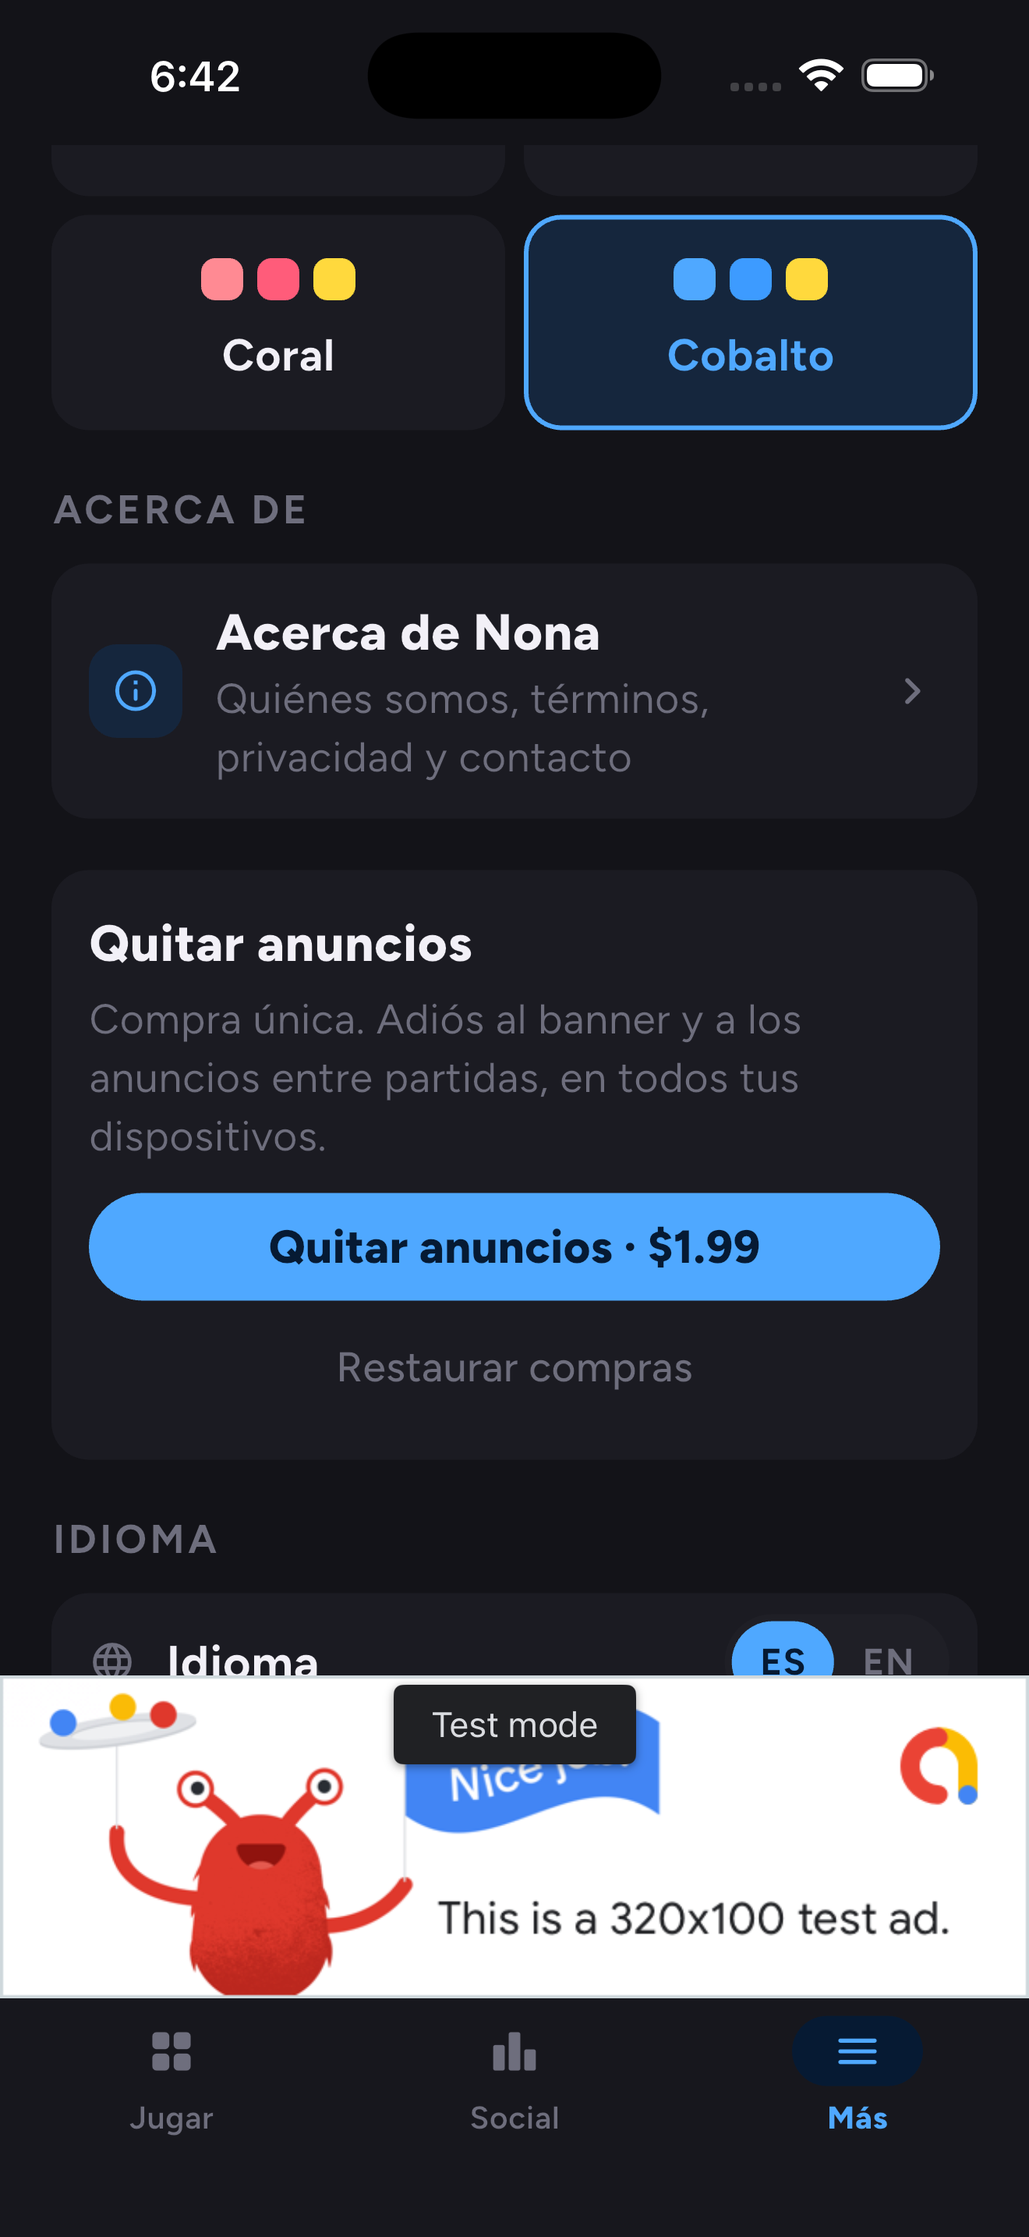
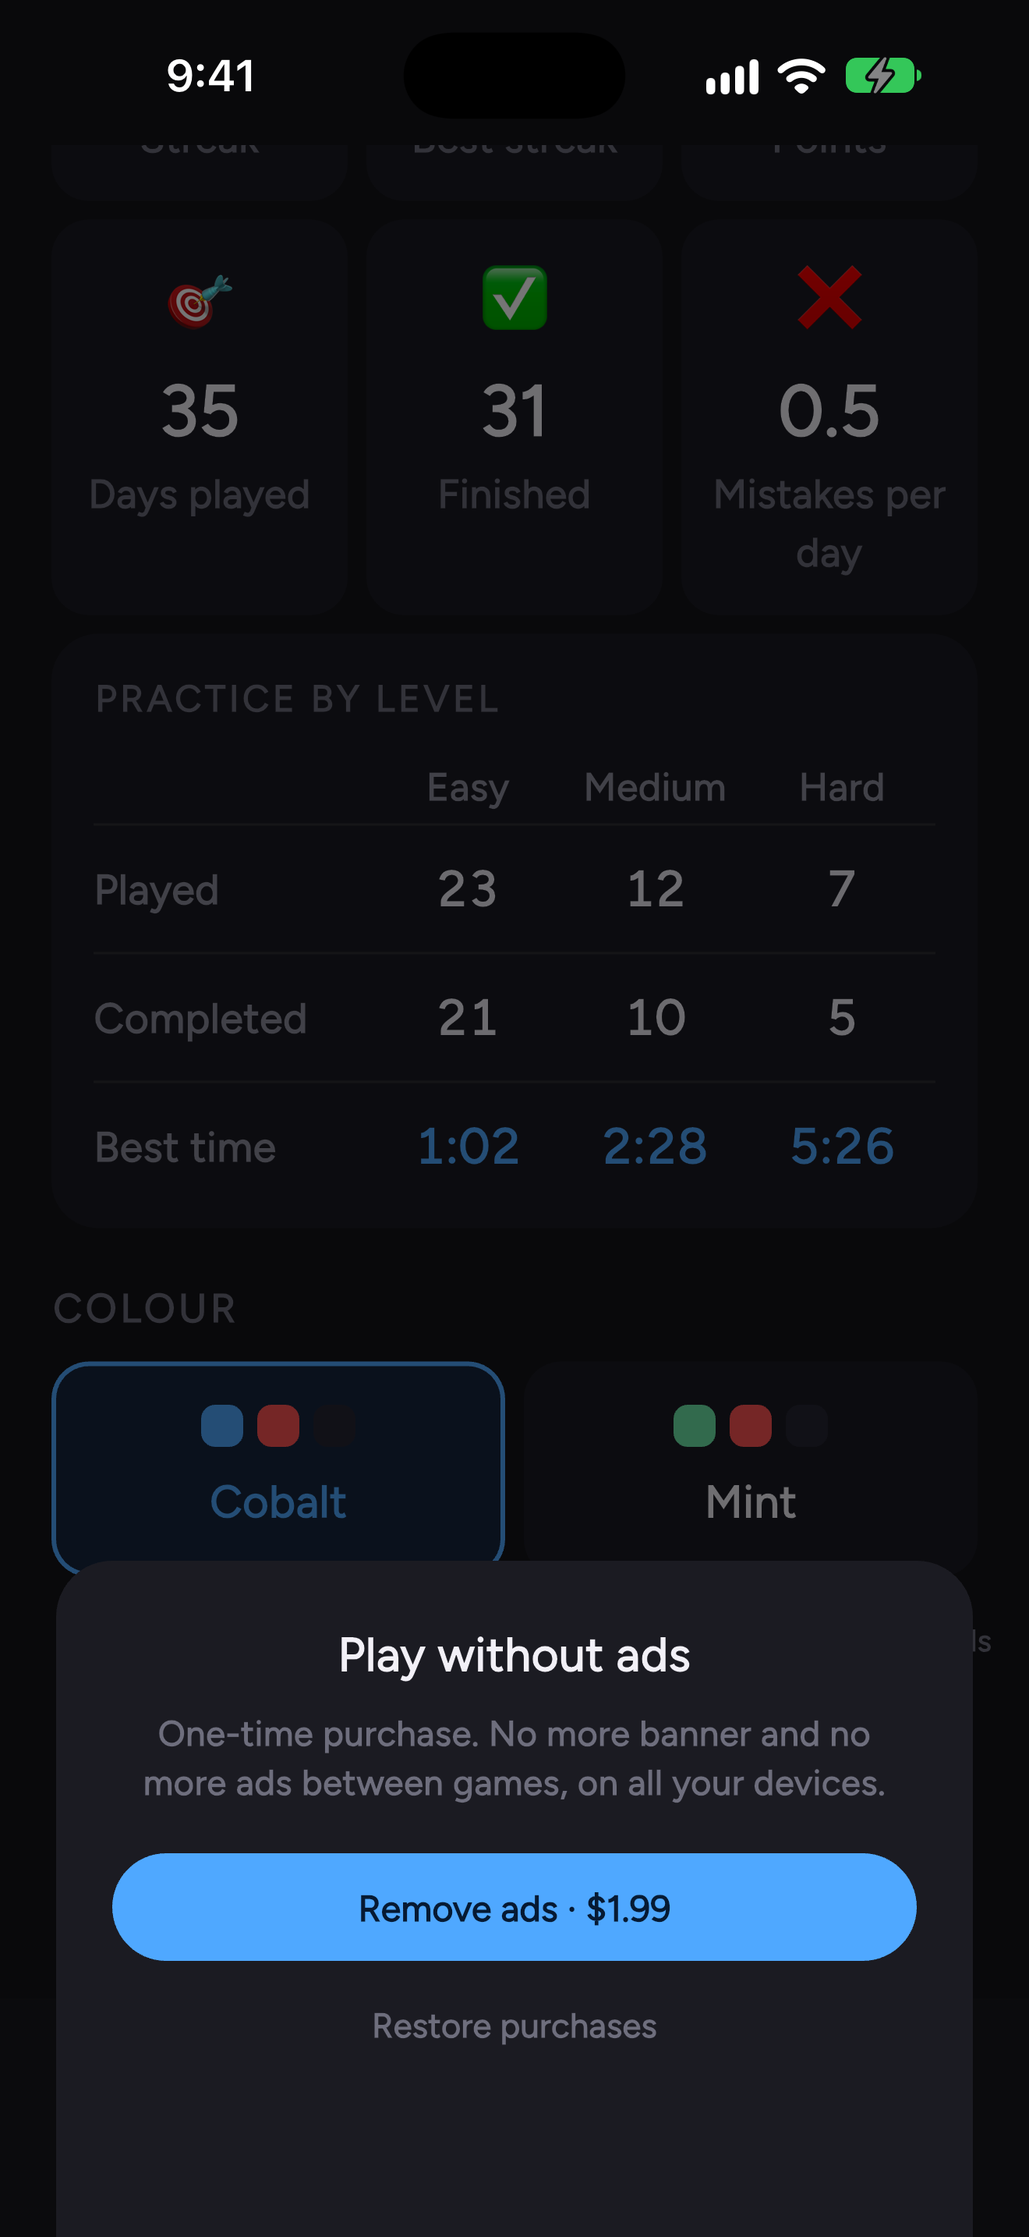
Build 16 en las dos tiendas; fichas, compra y captura de Social
- Build 16 (1.0.0+16): el nombre en el idioma de la pantalla, el paquete
  0.89.2 y Sentry propio. Info.plist declara el cifrado exento
  (ITSAppUsesNonExemptEncryption = false), como CINCO y Minigrama: sin la
  clave, cada build se queda esperando la respuesta a mano. Archivada, en
  pruebas internas de Play y en TestFlight. La 15, también en TestFlight.
- tools/subir_testflight.sh: sube la IPA ARCHIVADA, cotejada con su sha256 y
  mirada por dentro (bundle id y número) antes de subir.
- archivar_build.py limpiar borra también app/.dart_tool/flutter_build. Con
  app/build borrado y esa caché viva, la build siguiente reutiliza el Dart
  compilado y sale «✓ Built» sin un solo .symbols (dos veces hoy).
- amigos_demo.py escribía y borraba en apps/nona: --borrar se habría llevado
  el progreso de Nona de la cuenta del simulador. Ahora apps/minesweeper.
- Copia de tienda: las minas decían 8 y 16 (el código tiene 10 y 18), y las
  palabras clave pasaban del límite de Apple (100 bytes; la tilde cuenta dos).
- Capturas: 06-social (iPhone, es y en), la de revisión de la compra (la de
  store/iap/ era de Nona: decía «Acerca de Nona») y el gráfico de Play en
  inglés.
- CLAUDE.md, CONSTRUIR.md, LAUNCH_AUDIT.md y el LEEME de capturas: el estado
  de las tiendas y las trampas del día.

diff --git a/tools/amigos_demo.py b/tools/amigos_demo.py
@@ -18,6 +18,12 @@ la legua y se limpian con una consulta.
 import json, subprocess, sys, urllib.request, datetime
 
 PROJ = "cinco-fe5cc"
+# El espacio de ESTE juego en Firestore (`nonaGameId` en lib/nona_config.dart).
+# El guion vino de Nona con `apps/nona` escrito a mano en cinco sitios: sembraba
+# los amigos en la clasificación de Nona, y `--borrar` se llevaba los días de
+# NONA de la cuenta del simulador — progreso real, si la cuenta es de verdad.
+# Corregido el 24-11-2026, antes de usarlo por primera vez en Minesweeper.
+JUEGO = "minesweeper"
 BASE = f"https://firestore.googleapis.com/v1/projects/{PROJ}/databases/(default)/documents"
 # Handles NATURALES a propósito. El primer intento usó un prefijo `zz_demo_`
 # para poder barrer restos... y se veía en la fila del marcador: arruinaba la
@@ -29,7 +35,7 @@ PREFIJO = ""
 # Nombres neutros e inventados: NUNCA gente real de la lista de André — sus
 # amigos son personas y no pueden acabar en una ficha de tienda.
 # Tres países hispanohablantes distintos (decisión de André): la clasificación
-# enseña de un vistazo que Nona es de toda Hispanoamérica y no solo de Puerto
+# enseña de un vistazo que el juego es de toda Hispanoamérica y no solo de Puerto
 # Rico. Los apellidos acompañan al país para que la fila no chirríe.
 AMIGOS = [
     # (uid falso,             @usuario,       nombre,          avatar,     país, puntos, racha)
@@ -72,7 +78,7 @@ def sembrar(mio):
         # El RESUMEN por juego: normalmente lo escribe el servidor desde los
         # días crudos, pero aquí no hay partidas que recalcular — son cuentas
         # de atrezo. Se escribe con administrador, que se salta las reglas.
-        pedir("PATCH", f"users/{uid}/apps/nona", {"fields": {
+        pedir("PATCH", f"users/{uid}/apps/{JUEGO}", {"fields": {
             "totalPoints": I(puntos), "streak": I(racha), "bestStreak": I(racha + 4),
             "weekPoints": I(puntos // 12), "weekId": S(lunes.isoformat()),
             "monthPoints": I(puntos // 4), "monthId": S(hoy.strftime("%Y-%m")),
@@ -88,7 +94,7 @@ def sembrar(mio):
 
 def borrar(mio):
     for uid, handle, *_ in AMIGOS:
-        pedir("DELETE", f"users/{uid}/apps/nona")
+        pedir("DELETE", f"users/{uid}/apps/{JUEGO}")
         pedir("DELETE", f"users/{uid}")
         pedir("DELETE", f"usernames/{handle}")
         pedir("DELETE", f"friendships/{par(mio, uid)}")
@@ -102,14 +108,14 @@ def borrar(mio):
     # progreso legítimo — que es exactamente su trabajo. Así que la cuenta se
     # quedaba con 33 días inventados dentro aunque los amigos desaparecieran.
     # Lo cazó el agente de ficha leyendo el log del iPad.
-    dias = pedir("GET", f"users/{mio}/apps/nona/days?pageSize=300")
+    dias = pedir("GET", f"users/{mio}/apps/{JUEGO}/days?pageSize=300")
     for doc in (dias or {}).get("documents", []):
         pedir("DELETE", "/".join(doc["name"].split("/documents/")[1:]))
     print(f"  borrados {len((dias or {}).get('documents', []))} días de pega")
     # Y el resumen que el servidor recalculó a partir de ellos: sin los días,
     # el número que quedaría no lo respalda nada.
-    pedir("DELETE", f"users/{mio}/apps/nona")
-    print("  borrado el resumen de nona de la cuenta de pruebas")
+    pedir("DELETE", f"users/{mio}/apps/{JUEGO}")
+    print(f"  borrado el resumen de {JUEGO} de la cuenta de pruebas")
 
 if __name__ == "__main__":
     if len(sys.argv) != 3 or sys.argv[1] not in ("--sembrar","--borrar"):

diff --git a/tools/archivar_build.py b/tools/archivar_build.py
@@ -521,14 +521,23 @@ def orden_limpiar(args):
         if not os.path.exists(p) or sha256(p) != e[ext]["sha256"]:
             sys.exit("ERROR: %s no está o no cuadra con su hash. No borro nada."
                      % e[ext]["fichero"])
-    ruta = os.path.join(raiz_, "app", "build")
+    # app/build y la caché del Dart compilado van JUNTAS. Los .symbols se
+    # escriben en app/build/symbols solo cuando el Dart se compila; si se borra
+    # app/build y la caché de .dart_tool/flutter_build sigue viva, la build
+    # siguiente reutiliza el compilado y sale «✓ Built» sin símbolos: un
+    # binario ofuscado que nadie puede leer en Sentry (dos veces, 24-11-2026).
+    rutas = [os.path.join(raiz_, "app", "build"),
+             os.path.join(raiz_, "app", ".dart_tool", "flutter_build")]
     tam = sum(os.path.getsize(os.path.join(d, n))
-              for d, _, fs in os.walk(ruta) for n in fs)
+              for ruta in rutas for d, _, fs in os.walk(ruta) for n in fs)
     if not args.de_verdad:
-        print("Borraría %s (%.1f GB). Añade --de-verdad." % (ruta, tam / 2**30))
+        print("Borraría %s (%.1f GB). Añade --de-verdad."
+              % (" y ".join(rutas), tam / 2**30))
         return
-    shutil.rmtree(ruta)
-    print("Borrado %s: %.1f GB libres." % (ruta, tam / 2**30))
+    for ruta in rutas:
+        if os.path.isdir(ruta):
+            shutil.rmtree(ruta)
+    print("Borrado %s: %.1f GB libres." % (" y ".join(rutas), tam / 2**30))
 
 
 def main():

diff --git a/CLAUDE.md b/CLAUDE.md
@@ -4,10 +4,10 @@ Daily minesweeper by SENDA LLC, part of the **Juegos Senda** family (alongside
 CINCO, Nona and Minigrama). Flutter, iOS + Android. Bundle id and package
 `com.sendallc.minesweeper`; App Store ID `6830734481`. The name is
 **Buscaminas** in Spanish (home screen, store listings) and **Minesweeper** in
-English. Current version: `1.0.0+15` — on Google Play internal testing; the
-App Store has no submission yet.
+English. Current version: `1.0.0+16` — on Google Play internal testing and
+TestFlight; App Store version 1.0.0 is prepared with it, not yet submitted.
 
-Written 2026-11-23. If this feels stale, check `git log -5`,
+Written 2026-11-23, updated 2026-11-24. If this feels stale, check `git log -5`,
 `LAUNCH_AUDIT.md` and `legal/PENDIENTE.md` before trusting anything below.
 
 ## Born from Nona — read this before renaming anything
@@ -73,10 +73,16 @@ to find:
   since 2026-11-23.
 - iOS signs with the **"Minesweeper App Store"** provisioning profile (expires
   2027-06-05 with the distribution certificate).
-- **The IPA is André's to upload.** This session builds, verifies, archives and
-  uploads the AAB to Play internal testing.
-- Disk on this Mac is tight; Gradle's cache and booted simulators can empty it.
-  One heavy thing at a time.
+- **The IPA goes up with `tools/subir_testflight.sh <build>`** (the archived
+  IPA, checked against its sha256 and inside before uploading). André uploaded
+  it himself until build 15; on 2026-11-24 he had this session do it. The AAB
+  goes up with `tools/upload_play_internal.py`.
+- Disk on this Mac is tight; Gradle's cache, swap (a Gradle build grows it by
+  ~3 GB) and simulators can empty it. One heavy thing at a time.
+- **Deleting `app/build` alone breaks the next build's symbols.** The compiled
+  Dart is cached in `app/.dart_tool/flutter_build/`; with it alive, the next
+  build reuses it, writes no `.symbols`, and still says `✓ Built` (twice on
+  2026-11-24). Delete both, and check `app/build/symbols/` before archiving.
 
 ## Architecture: the shared package
 
@@ -136,16 +142,33 @@ Crash reporting: Firebase Crashlytics + Sentry project **`minesweeper`** (org
 - **`tools/amigos_demo.py` writes fake accounts to production** and must always
   be paired with its `--borrar` cleanup.
 
-## State as of 2026-11-23
+## State as of 2026-11-24
 
-- Legal pages: all six live at `sendapr.com/{privacy,terms,delete-account}/minesweeper/{,en/}`.
+- Legal pages: all six live at `sendapr.com/{privacy,terms,delete-account}/minesweeper/{,en/}`
+  (the Spanish delete-account page republished 2026-11-24 with «Borrar Buscaminas»).
 - AdMob: apps "Minesweeper — Daily Logic" (Android `~7005873887`, iOS
   `~7754567513`) with their own units; **not linked to the stores yet** (the
   app isn't public), so ad serving is limited until they are.
-- Store screenshots: 18 in `store/screenshots/` (see its `LEEME.md`); the
-  Social one is still missing.
-- Pending, André: upload the build 15 IPA, the Remove Ads IAP in both consoles,
-  the store listings (`store/copy/listing-copy.md`), the Social screenshot.
+- Build 16 (2026-11-24): AAB on Play internal testing, IPA on App Store
+  Connect (VALID; export compliance answered by its Info.plist) and **attached
+  to version 1.0.0**, which is ready but **not submitted**. Build 15 is also on
+  both (its IPA waits on the export-compliance answer; it doesn't matter now).
+- App Store Connect, filled through the API: version **1.0.0** (was "1.0", which
+  a 1.0.0 build can't attach to), en-US + es-MX name/subtitle/privacy URL,
+  description, keywords, promo text, support/marketing URLs, Games › Puzzle,
+  age rating (Nona's answers, 4+), free, Nona's 145 territories (no EEA/UK),
+  review contact and notes, 20 screenshots. IAP `…removeads` **ready to
+  submit** ($1.99, es-MX/en-US texts, Nona's territories, review screenshot of
+  the purchase sheet — the old one in `store/iap/` was Nona's).
+- Google Play, through the API: en-US + es-419 listing, icon, feature graphic
+  (Spanish; English one made from it, `store/icon/store-assets/play-feature-en-1024x500.png`),
+  6 phone + 4 tablet screenshots per language, contact details. One-time
+  product `…removeads` **active**, Nona's regional prices.
+- Declarations this session did not make (they're André's to sign): App
+  Privacy (App Store); Data safety, content rating, target audience and ads
+  (Play) — not checked whether any are already done. Then: submit for review.
+- Social screenshot done (iPhone, es + en) with a test account and
+  `tools/amigos_demo.py`, cleaned up and verified; how, in `store/screenshots/LEEME.md`.
 
 ## Where to look
 

diff --git a/docs/CONSTRUIR.md b/docs/CONSTRUIR.md
@@ -26,6 +26,18 @@ python3 tools/archivar_build.py verificar
   menos de ~5 GB libres, **no construyas encima**: limpia antes (paso 6) y
   apaga los simuladores. Cuando el disco llega a cero deja de funcionar hasta
   Bash.
+- **El swap también es disco.** El 24-11-2026, con 8,8 GB libres y la caché de
+  Gradle vacía, el AAB se comió la caché (4,8 GB) y el swap creció otros ~3 GB:
+  falló por disco. Para que Gradle pida menos memoria (y menos swap) sin tocar
+  el `gradle.properties` del proyecto:
+  `export GRADLE_OPTS="-Dorg.gradle.jvmargs=-Xmx3g -XX:MaxMetaspaceSize=1g"`.
+- **Si borras `app/build` a medias, borra también `app/.dart_tool/flutter_build`.**
+  Los `.symbols` los escribe el compilador de Dart en `app/build/symbols` como
+  efecto lateral, pero el Dart compilado se guarda en `.dart_tool/flutter_build/`.
+  Con `app/build` borrado y esa caché viva, la build siguiente reutiliza el
+  compilado, no recompila, **y sale `✓ Built` sin un solo `.symbols`** — un AAB
+  ofuscado que nadie podrá leer en Sentry. Pasó dos veces el 24-11-2026 (y se
+  culpó al disco, que no era). Mira `ls app/build/symbols` antes de archivar.
 - **El orden.** AAB primero, IPA después, **nunca a la vez**. Al acabar el AAB,
   `./gradlew --stop` dentro de `app/android` suelta la memoria de los daemons.
 - **La auditoría.** En este Mac `verificar` solo puede ver de la 15 en adelante:
@@ -176,8 +188,24 @@ python3 tools/upload_play_internal.py \
   Play rechaza un número repetido. Después, apúntalo en el registro:
   `python3 tools/archivar_build.py tienda <build> "Play pruebas internas, <fecha>"`.
 
-**iOS — la IPA la sube André** a App Store Connect (Transporter o `altool`),
-bajo la entrada de versión cuyo número coincida.
+**iOS, a App Store Connect (TestFlight):**
+
+```
+bash tools/subir_testflight.sh <build>
+```
+
+Sube la IPA **archivada** (comprueba su sha256 y, dentro, bundle id y número
+de build) con la llave del equipo (`VC5Y48T3Z4`, en
+`~/.appstoreconnect/private_keys/`). Hasta la 15 la subía André a mano; la 15
+la subió esta sesión a petición suya (24-11-2026). Después, el registro:
+`python3 tools/archivar_build.py tienda <build> "… · App Store Connect (TestFlight), <fecha>"`.
+
+- **La entrada de versión tiene que decir lo mismo que la IPA.** Se creó como
+  «1.0» y la IPA dice «1.0.0»: se cambió a 1.0.0 el 24-11-2026 (Nona aprendió
+  con la 1.0.1 que un número distinto sube bien y luego no se puede adjuntar).
+- **Cumplimiento de exportación:** desde la 16, `Info.plist` declara
+  `ITSAppUsesNonExemptEncryption = false` (como CINCO y Minigrama). La 15 no la
+  lleva y espera la respuesta a mano en App Store Connect.
 
 ### Cuando ya está a la venta: publicar su número
 
@@ -224,6 +252,7 @@ pueden rehacer.
 | La subida a Play cae en el commit con 403 (23-11-2026) | la cuenta de servicio no tenía permisos sobre Minesweeper | todo sube bien y nada se publica |
 | CocoaPods muere, Flutter se pasa a SPM | falta `export LANG=en_US.UTF-8` | silencioso hasta que algo no enlaza |
 | El disco se vacía durante la build (23-11-2026) | caché de Gradle + swap de simuladores encendidos | Bash deja de responder |
+| El AAB sale sin `.symbols` (24-11-2026) | se borró `app/build` y no `app/.dart_tool/flutter_build`: la build reutilizó el Dart compilado | `✓ Built`: solo se ve mirando `app/build/symbols/` |
 | Los avisos push se registran y no llegan nunca | `aps-environment` ausente | **nada** |
 | Google Sign-In abre el navegador y la app no reacciona | `CFBundleURLTypes` ausente o copiado de otro juego | **nada**: un botón muerto |
 | App Store Connect rechaza la IPA | slice de simulador | rechazo días después |
@@ -249,6 +278,7 @@ es una ruta fija y la siguiente construcción lo pisa.
 
 ## Lo que esta sesión no hace
 
-Subir la IPA a App Store Connect: eso es de André. Aquí se construye, se
-verifica, se archiva y se sube el AAB a pruebas internas; y cuando una versión
-ya está a la venta, se publica su número (§5).
+Enviar a revisión ni publicar en producción: eso lo decide André. Aquí se
+construye, se verifica, se archiva y se sube a pruebas (AAB a pruebas internas
+de Play; la IPA a TestFlight cuando André lo pide); y cuando una versión ya está
+a la venta, se publica su número (§5).

diff --git a/store/screenshots/LEEME.md b/store/screenshots/LEEME.md
@@ -1,12 +1,13 @@
-# Capturas de tienda de Minesweeper — 23-11-2026
+# Capturas de tienda de Minesweeper — 23/24-11-2026
 
-**18 capturas, sin subir.** Sustituyen a las de Nona, que seguían aquí desde la
-conversión.
+**20 capturas, subidas a las dos tiendas el 24-11-2026** (App Store: es-MX y
+en-US; Play: es-419 y en-US, las de iPhone como teléfono y las de iPad como
+tablet de 10"). Sustituyen a las de Nona, que seguían aquí desde la conversión.
 
 | | iPhone 6.9" (1320×2868) | iPad 13" (2064×2752) |
 |---|---|---|
-| **en** | 5 | 4 |
-| **es** | 5 | 4 |
+| **en** | 6 | 4 |
+| **es** | 6 | 4 |
 
 Tamaños verificados por cabecera PNG: coinciden **exactos** con lo que exige
 Apple para 6.9" y 13".
@@ -20,6 +21,7 @@ Apple para 6.9" y 13".
 | `03-hard-board` | Práctica en difícil (10×14) a medias: 6 banderas, 22 por marcar, ninguna detonada |
 | `04-stats` | Las seis tarjetas de estadísticas + la tabla de práctica (en iPad, también los colores) |
 | `05-practice-themes` | Tabla de práctica por nivel + los cuatro colores *(solo iPhone: en iPad ya salen en `04`)* |
+| `06-social` | Clasificación «Total» con tres amigos de pega: tú, 2.º con 2737 *(solo iPhone, 24-11-2026)* |
 
 ## Cómo se hicieron, para poder repetirlas
 
@@ -50,11 +52,23 @@ Apple para 6.9" y 13".
 
 ## Lo que NO hay, y por qué
 
-- **Social/clasificación.** Con sesión de invitado la pestaña enseña la
-  invitación a entrar, no una clasificación. Hace falta una cuenta real en el
-  simulador (el inicio de sesión lo hace André) y `tools/amigos_demo.py`, que
-  escribe y luego **borra** cuentas de pega en la base de datos real. Pendiente
-  de su visto bueno.
+- **Social en iPad.** El simulador de iPad se borró el 24-11-2026 para hacer
+  sitio a la build 16; la de Social se hizo solo en iPhone.
+
+## Cómo se hizo `06-social` (24-11-2026), para poder repetirla
+
+1. Sembrar el simulador (`sembrar_demo.py`, apagado) y abrir la app.
+2. **André inicia sesión con una cuenta de PRUEBAS**, nunca la suya: al entrar,
+   la app sube los 33 días sembrados a esa cuenta, y la limpieza los borra.
+3. Antes de sembrar amigos, comprobar que `usernames/ana_rivera` (y los otros
+   dos) **no existen**: `amigos_demo.py` los escribe sin mirar y `--borrar` los
+   borra — con el handle de alguien real, se lo quitaría.
+4. `amigos_demo.py --sembrar <uid>`, captura en «Total» (en «Semana» la cuenta
+   sale última con 50 puntos), Más → Idioma → EN, otra captura.
+5. **Cerrar sesión en la app y cerrarla ANTES de `--borrar`**: con la sesión
+   abierta, la próxima vez que se abra volvería a subir los días sembrados.
+6. `amigos_demo.py --borrar <uid>` y comprobar en Firestore que no queda nada
+   (perfiles, handles, amistades, días y resumen de `apps/minesweeper`).
 - **El selector de nivel de la práctica.** Su copia sigue siendo la de Nona
   («pistas», «técnicas como pares y tríos», «givens / pairs and triples») y en
   inglés el conmutador sale en español («Senda (3 vidas)» / «Clásico (1 vida)»).

diff --git a/LAUNCH_AUDIT.md b/LAUNCH_AUDIT.md
@@ -46,6 +46,24 @@ The following vulnerabilities, multi-device sync bugs, and rendering/algorithmic
 
 ## 2. What Is Blocking Launch Right Now (Actionable Checklist by Owner)
 
+> **Estado al 24-11-2026** (lo de abajo es la auditoría tal como se entregó; el
+> estado vivo está en `CLAUDE.md` § State):
+> - **Bloqueo 1, páginas legales:** hecho. Las seis en 200; la de borrar cuenta
+>   (ES) republicada el 24-11 con «Borrar Buscaminas de tu cuenta».
+> - **Bloqueo 2, capturas e IPA:** hecho. 20 capturas (con `06-social`, solo
+>   iPhone), subidas a las dos tiendas. Builds 15 y 16 con sus dos mitades
+>   archivadas y en pruebas (Play interno y TestFlight); la 16, adjunta a la
+>   versión 1.0.0 de App Store, sin enviar a revisión.
+> - **Bloqueo 3, AdMob:** hecho el 23-11. Unidades propias; falta enlazar las
+>   apps de AdMob a las tiendas cuando la app sea pública.
+> - **Bloqueo 4:** backend desplegado y handles reservados (23-11). IAP en las
+>   dos tiendas (activa en Play; lista para enviar en App Store, con su captura
+>   de revisión nueva: la de `store/iap/` era de Nona). Fichas de las dos
+>   tiendas rellenas por API desde `store/copy/listing-copy.md`, con las minas
+>   corregidas (10 y 18, no 8 y 16). Faltan las declaraciones, que firma André:
+>   privacidad de la app (Apple); seguridad de datos, clasificación, público y
+>   anuncios (Play). Y enviar a revisión.
+
 ### Blocker 1: Publish Legal Pages on `sendapr.com` *(For the `sendapr` Website Agent)*
 **Status:** Markdown & generator are **100% ready in `legal/`**. Live URLs currently return `HTTP 404`.
 
